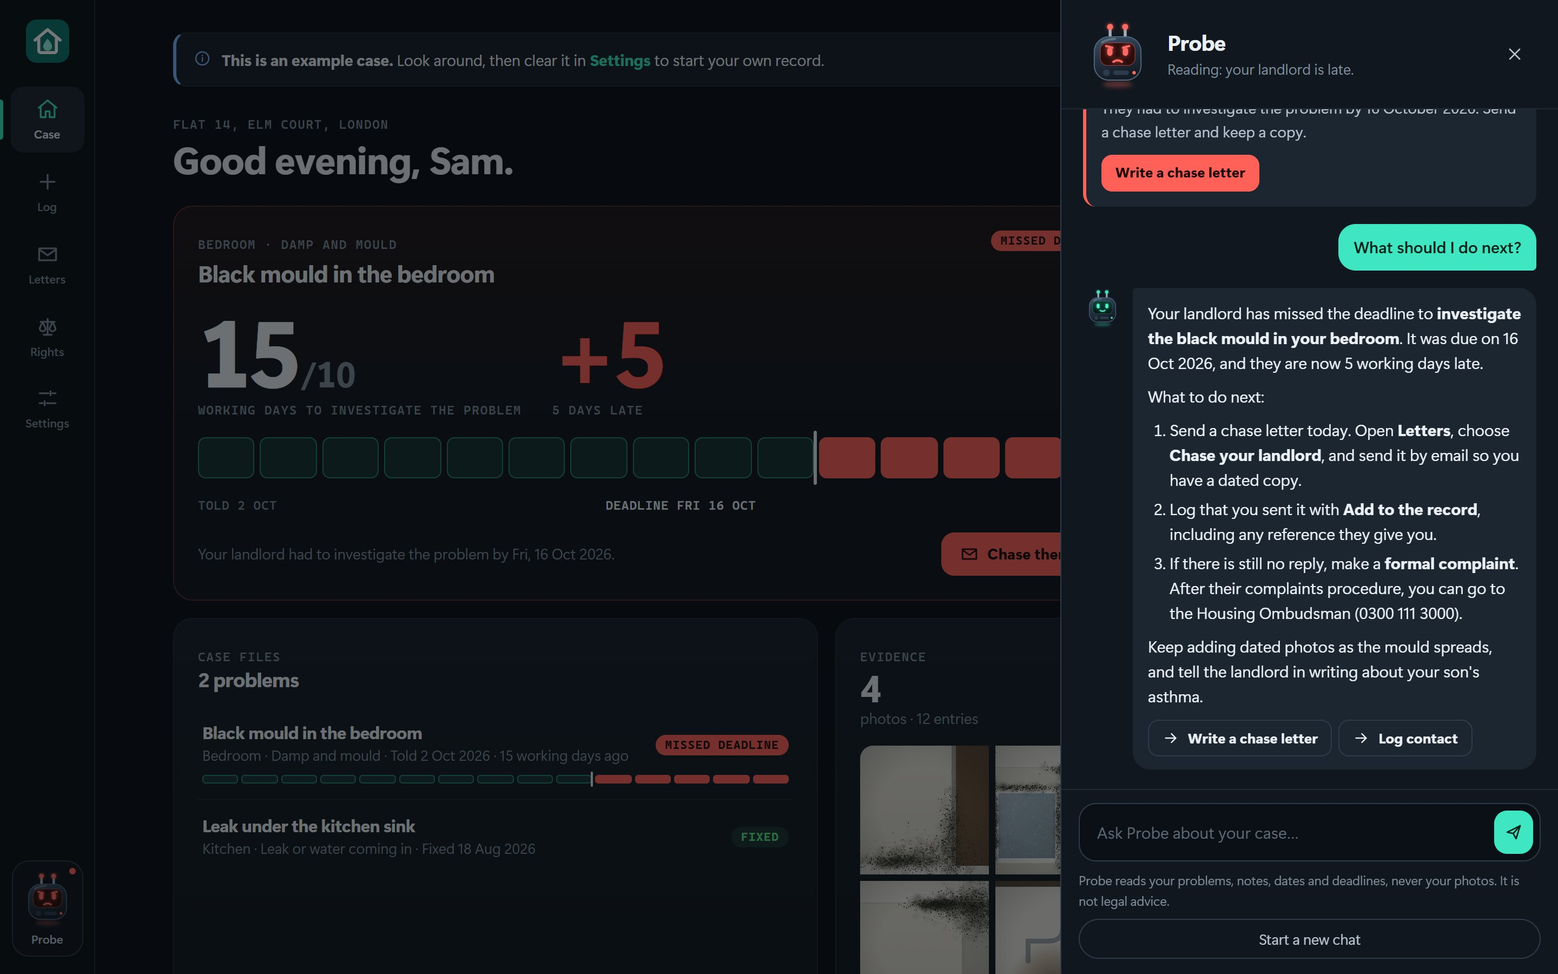
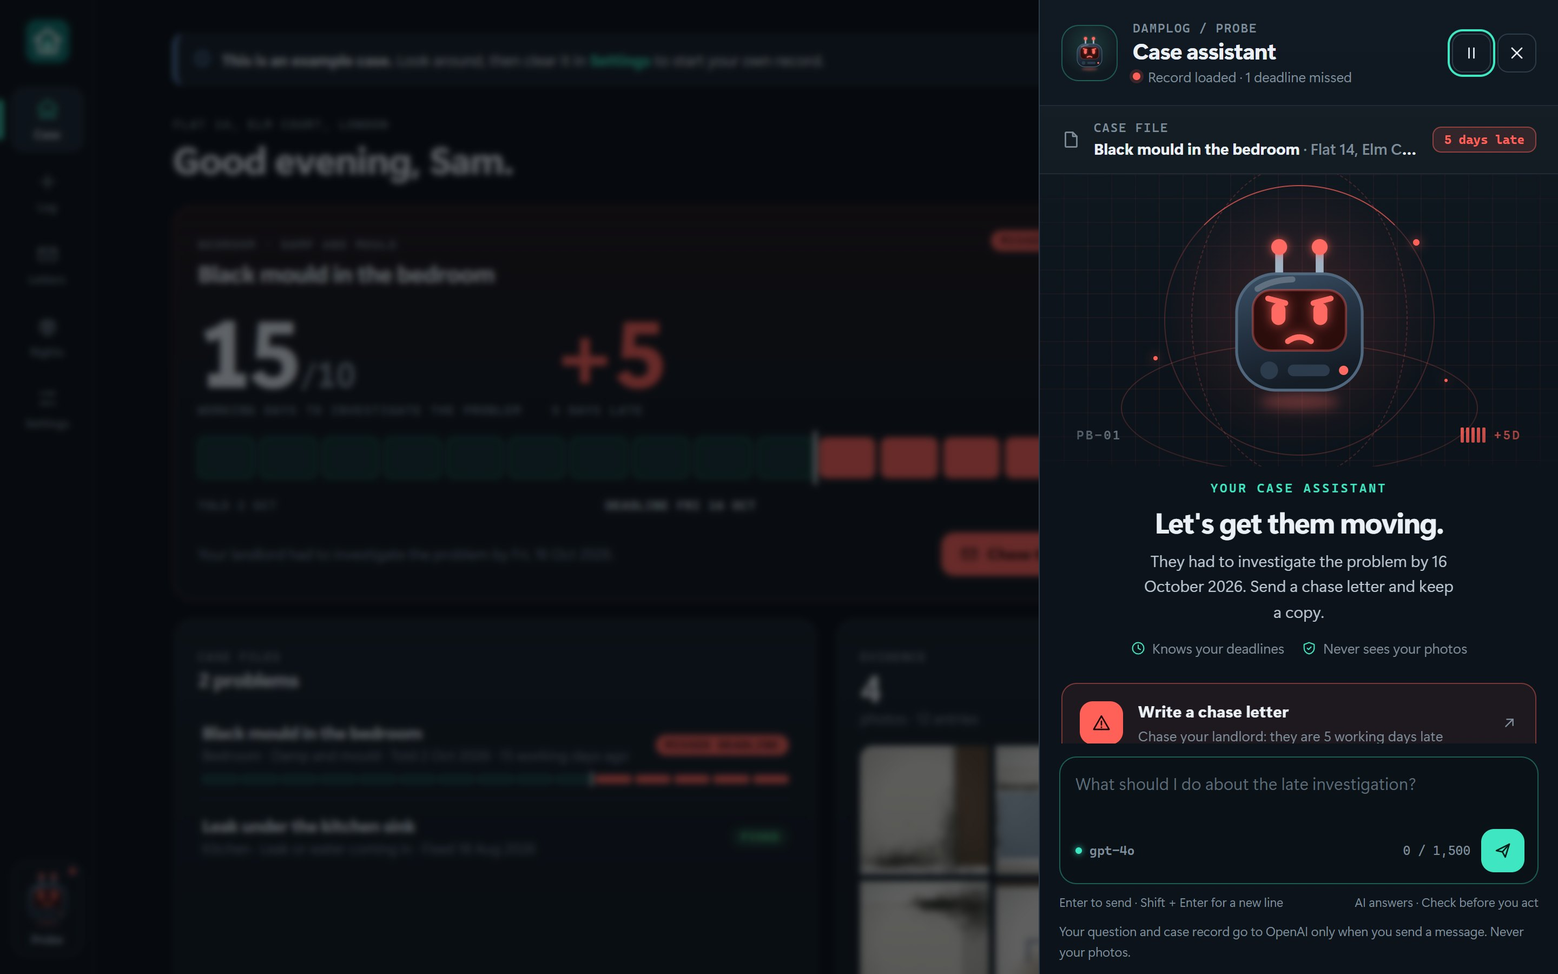
Give Probe a full assistant panel: lab stage, case bar, action cards and composer

diff --git a/css/styles.css b/css/styles.css
@@ -509,30 +509,115 @@ button.thumb:hover { transform: rotate(0) scale(1.04); }
 @keyframes pb-pop { from { transform: scale(0.5) translateY(10px); opacity: 0; } }
 
 /* Probe's panel: slides in from the right, a sheet on phones */
-.probe-panel { position: fixed; inset: 0 0 0 auto; margin: 0; height: 100%; max-height: none; max-width: none; width: min(460px, 100vw); padding: 0; border: 0; border-left: 1px solid var(--line-strong); border-radius: 0; background: var(--panel); color: var(--ink); display: none; flex-direction: column; animation: panel-in 0.26s cubic-bezier(0.2, 0.8, 0.2, 1); }
+.probe-panel { position: fixed; inset: 0 0 0 auto; margin: 0; height: 100%; max-height: none; max-width: none; width: min(480px, 100vw); padding: 0; border: 0; border-left: 1px solid var(--line-strong); border-radius: 0; background: linear-gradient(180deg, #111a23, #0c131a 40%); color: var(--ink); display: none; flex-direction: column; animation: panel-in 0.28s cubic-bezier(0.2, 0.8, 0.2, 1); }
 .probe-panel[open] { display: flex; }
-.probe-panel::backdrop { background: rgb(4 7 10 / 55%); }
-@keyframes panel-in { from { transform: translateX(40px); opacity: 0; } }
-.panel-head { display: flex; align-items: center; gap: 14px; padding: 18px 20px; border-bottom: 1px solid var(--line); }
-.panel-head h2 { font-size: 1.25rem; }
-.panel-head p { margin: 2px 0 0; color: var(--muted); font-size: 0.84rem; }
-.panel-head .btn { margin-left: auto; }
-.panel-body { flex: 1; overflow-y: auto; padding: 18px 20px; display: flex; flex-direction: column; gap: 16px; }
-.panel-foot { padding: 12px 16px calc(14px + env(safe-area-inset-bottom)); border-top: 1px solid var(--line); display: flex; flex-direction: column; gap: 8px; }
-.readings { display: flex; flex-direction: column; gap: 10px; }
-.thread { display: flex; flex-direction: column; gap: 16px; }
+.probe-panel:focus { outline: none; }
+.probe-panel::backdrop { background: rgb(4 7 10 / 60%); -webkit-backdrop-filter: blur(3px); backdrop-filter: blur(3px); }
+@keyframes panel-in { from { transform: translateX(48px); opacity: 0; } }
+.probe-panel.calm *, .probe-panel.calm *::before, .probe-panel.calm *::after { animation-play-state: paused !important; }
+
+.pp-head { display: flex; align-items: center; gap: 14px; padding: 18px 20px 16px; border-bottom: 1px solid var(--line); }
+.pp-avatar { display: grid; place-items: center; width: 52px; height: 52px; border-radius: 16px; background: radial-gradient(circle at 50% 35%, #1d3b39, #101820 70%); border: 1px solid rgb(62 230 193 / 30%); flex: none; }
+.pp-title { display: flex; flex-direction: column; gap: 1px; min-width: 0; }
+.pp-title h2 { font-size: 1.3rem; }
+.pp-status { display: inline-flex; align-items: center; gap: 7px; font-size: 0.8rem; color: var(--muted); }
+.pp-status i { width: 7px; height: 7px; border-radius: 50%; background: var(--accent); box-shadow: 0 0 0 3px rgb(62 230 193 / 18%); animation: pb-tip 1.8s ease-in-out infinite; }
+.pp-status.bad i { background: var(--bad); box-shadow: 0 0 0 3px rgb(255 97 89 / 18%); }
+.pp-tools { margin-left: auto; display: flex; gap: 6px; }
+.pp-tools .btn { width: 36px; height: 36px; border-radius: 10px; background: transparent; }
+.pp-context { display: flex; align-items: center; gap: 12px; padding: 12px 20px; border-bottom: 1px solid var(--line); background: rgb(255 255 255 / 2%); }
+.pp-context > .icon { color: var(--muted); flex: none; }
+.pp-context > div { display: flex; flex-direction: column; min-width: 0; flex: 1; }
+.pp-context strong { font-size: 0.9rem; white-space: nowrap; overflow: hidden; text-overflow: ellipsis; }
+.pp-context strong span { color: var(--muted); font-weight: 500; }
+.pp-pill { flex: none; padding: 4px 10px; border-radius: 8px; border: 1px solid var(--line-strong); font: 700 0.72rem var(--mono); color: var(--ink-2); }
+.pp-pill.bad { border-color: rgb(255 97 89 / 45%); color: var(--bad); background: var(--bad-soft); }
+
+.panel-body { flex: 1; overflow-y: auto; padding: 0 20px 18px; display: flex; flex-direction: column; }
+.panel-foot { padding: 12px 18px calc(12px + env(safe-area-inset-bottom)); display: flex; flex-direction: column; gap: 8px; }
+
+/* The lab: Probe on a holographic stage */
+.pp-lab { display: flex; flex-direction: column; gap: 18px; }
+.pp-stage { position: relative; height: 270px; margin: 0 -20px; display: grid; place-items: center; overflow: hidden; isolation: isolate;
+  background:
+    radial-gradient(circle at 50% 48%, rgb(62 230 193 / 18%), transparent 46%),
+    linear-gradient(rgb(62 230 193 / 7%) 1px, transparent 1px) 0 0 / 22px 22px,
+    linear-gradient(90deg, rgb(62 230 193 / 7%) 1px, transparent 1px) 0 0 / 22px 22px;
+  -webkit-mask-image: radial-gradient(ellipse 75% 85% at 50% 50%, #000 55%, transparent 100%); mask-image: radial-gradient(ellipse 75% 85% at 50% 50%, #000 55%, transparent 100%); }
+.pp-stage.alert { background:
+    radial-gradient(circle at 50% 48%, rgb(255 97 89 / 18%), transparent 46%),
+    linear-gradient(rgb(255 97 89 / 6%) 1px, transparent 1px) 0 0 / 22px 22px,
+    linear-gradient(90deg, rgb(255 97 89 / 6%) 1px, transparent 1px) 0 0 / 22px 22px; }
+.pp-stage .probe { position: relative; z-index: 2; }
+.pp-orbit { position: absolute; left: 50%; top: 50%; border-radius: 50%; border: 1px solid rgb(62 230 193 / 28%); transform: translate(-50%, -50%); }
+.pp-orbit.o1 { width: 250px; height: 250px; animation: pp-spin 26s linear infinite; border-top-color: rgb(62 230 193 / 70%); }
+.pp-orbit.o2 { width: 200px; height: 290px; border-style: dashed; border-color: rgb(62 230 193 / 18%); animation: pp-spin 40s linear infinite reverse; }
+.pp-orbit.o3 { width: 330px; height: 120px; top: 80%; border-color: rgb(62 230 193 / 16%); }
+.pp-stage.alert .pp-orbit { border-color: rgb(255 97 89 / 22%); }
+.pp-stage.alert .pp-orbit.o1 { border-top-color: rgb(255 97 89 / 70%); }
+@keyframes pp-spin { to { transform: translate(-50%, -50%) rotate(360deg); } }
+.pp-spark { position: absolute; width: 6px; height: 6px; border-radius: 50%; background: var(--accent); box-shadow: 0 0 10px var(--accent); animation: pp-drift 6s ease-in-out infinite; }
+.pp-spark.s1 { left: 72%; top: 22%; }
+.pp-spark.s2 { left: 22%; top: 62%; width: 4px; height: 4px; animation-delay: -2s; }
+.pp-spark.s3 { left: 78%; top: 70%; width: 3px; height: 3px; animation-delay: -4s; }
+.pp-stage.alert .pp-spark { background: var(--bad); box-shadow: 0 0 10px var(--bad); }
+@keyframes pp-drift { 0%, 100% { transform: translate(0, 0); opacity: 0.9; } 50% { transform: translate(-8px, -14px); opacity: 0.35; } }
+.pp-tag, .pp-meter { position: absolute; bottom: 22px; font: 600 0.72rem var(--mono); letter-spacing: 0.14em; color: var(--muted); }
+.pp-tag { left: 34px; }
+.pp-meter { right: 34px; display: flex; align-items: flex-end; gap: 8px; color: var(--accent); }
+.pp-stage.alert .pp-meter { color: var(--bad); }
+.pp-bars { display: inline-flex; align-items: flex-end; gap: 2px; height: 14px; }
+.pp-bars i { width: 3px; height: 100%; border-radius: 1px; background: currentColor; transform-origin: bottom; animation: pb-bar 1.1s ease-in-out infinite; }
+.pp-bars i:nth-child(2) { animation-delay: 0.15s; }
+.pp-bars i:nth-child(3) { animation-delay: 0.3s; }
+.pp-bars i:nth-child(4) { animation-delay: 0.45s; }
+.pp-bars i:nth-child(5) { animation-delay: 0.6s; }
+
+.pp-intro { display: flex; flex-direction: column; align-items: center; text-align: center; gap: 8px; margin-top: -6px; }
+.pp-intro .kicker { color: var(--accent); letter-spacing: 0.16em; }
+.pp-intro h3 { font-size: 1.65rem; font-weight: 800; letter-spacing: -0.03em; }
+.pp-intro p { color: var(--ink-2); margin: 0; max-width: 36ch; }
+.pp-chips { display: flex; gap: 16px; flex-wrap: wrap; justify-content: center; margin-top: 4px; }
+.pp-chips span { display: inline-flex; align-items: center; gap: 6px; font-size: 0.8rem; color: var(--muted); }
+.pp-chips .icon { color: var(--accent); }
+
+.pp-cards { display: flex; flex-direction: column; gap: 10px; margin-top: 4px; }
+.pp-card { display: flex; align-items: center; gap: 14px; width: 100%; padding: 14px 16px; border-radius: 14px; border: 1px solid var(--line-strong); background: rgb(255 255 255 / 3%); color: var(--ink); font: inherit; text-align: left; cursor: pointer; transition: border-color 0.15s, background 0.15s, transform 0.15s; }
+.pp-card:hover { border-color: rgb(62 230 193 / 55%); background: rgb(62 230 193 / 6%); transform: translateY(-1px); }
+.pp-card > .icon { color: var(--muted); flex: none; transition: transform 0.15s, color 0.15s; }
+.pp-card:hover > .icon { color: var(--accent); transform: translate(2px, -2px); }
+.pp-card-icon { display: grid; place-items: center; width: 40px; height: 40px; border-radius: 12px; background: rgb(62 230 193 / 12%); color: var(--accent); flex: none; }
+.pp-card.bad { border-color: rgb(255 97 89 / 40%); background: rgb(255 97 89 / 7%); }
+.pp-card.bad .pp-card-icon { background: var(--bad); color: #1a0504; }
+.pp-card.bad:hover { border-color: var(--bad); }
+.pp-card.warn .pp-card-icon { background: var(--warn-soft); color: var(--warn); }
+.pp-card-text { flex: 1; display: flex; flex-direction: column; gap: 1px; min-width: 0; }
+.pp-card-text strong { font-size: 0.95rem; }
+.pp-card-text small { color: var(--muted); font-size: 0.82rem; }
+
+/* The composer */
+.pp-composer { display: flex; flex-direction: column; gap: 6px; padding: 12px 12px 10px 14px; border-radius: 16px; border: 1px solid rgb(62 230 193 / 35%); background: #0a1117; transition: border-color 0.15s, box-shadow 0.15s; }
+.pp-composer:focus-within { border-color: var(--accent); box-shadow: 0 0 0 3px rgb(62 230 193 / 14%); }
+.pp-composer textarea { border: 0; background: none; padding: 0; resize: none; box-shadow: none; font-size: 0.98rem; min-height: 46px; max-height: 180px; }
+.pp-composer textarea:focus { box-shadow: none; }
+.pp-composer-foot { display: flex; align-items: center; gap: 10px; }
+.pp-model { display: inline-flex; align-items: center; gap: 7px; font: 600 0.74rem var(--mono); color: var(--muted); }
+.pp-model i { width: 6px; height: 6px; border-radius: 50%; background: var(--muted); }
+.pp-model.on i { background: var(--accent); box-shadow: 0 0 6px var(--accent); }
+.pp-count { margin-left: auto; font: 0.74rem var(--mono); color: var(--muted); }
+.pp-composer .btn { width: 40px; height: 40px; border-radius: 12px; }
+.pp-hints { display: flex; justify-content: space-between; gap: 10px; flex-wrap: wrap; font-size: 0.72rem; color: var(--muted); }
+.fineprint { color: var(--muted); font-size: 0.74rem; margin: 0; }
+
+/* The conversation */
+.thread { display: flex; flex-direction: column; gap: 16px; padding-top: 18px; }
 .msg.user { align-self: flex-end; max-width: 86%; padding: 10px 14px; border-radius: 16px 16px 4px 16px; background: var(--accent); color: var(--accent-ink); font-weight: 550; white-space: pre-wrap; }
 .msg.ai { display: grid; grid-template-columns: auto minmax(0, 1fr); gap: 10px; }
-.msg.ai .msg-body { padding: 12px 14px; border-radius: 4px 16px 16px 16px; background: var(--panel-3); font-size: 0.93rem; display: flex; flex-direction: column; gap: 10px; }
+.msg.ai .msg-body { padding: 12px 14px; border-radius: 4px 16px 16px 16px; background: rgb(255 255 255 / 4%); border: 1px solid var(--line); font-size: 0.93rem; display: flex; flex-direction: column; gap: 10px; }
 .msg-actions { display: flex; gap: 6px; flex-wrap: wrap; }
-.prompt-chips { display: flex; gap: 8px; flex-wrap: wrap; }
 .chip { padding: 7px 12px; border-radius: 999px; border: 1px solid var(--line-strong); background: transparent; color: var(--ink-2); font: inherit; font-size: 0.84rem; cursor: pointer; }
 .chip:hover { border-color: var(--accent); color: var(--ink); }
-.composer { display: flex; gap: 8px; align-items: flex-end; padding: 6px; border-radius: 16px; border: 1px solid var(--line-strong); background: #0b1016; }
-.composer:focus-within { border-color: var(--accent); }
-.composer textarea { border: 0; background: none; resize: none; box-shadow: none; padding: 8px 10px; max-height: 160px; }
-.composer textarea:focus { box-shadow: none; }
-.fineprint { color: var(--muted); font-size: 0.74rem; margin: 0; }
+
 .md { display: flex; flex-direction: column; gap: 8px; overflow-wrap: anywhere; }
 .md p, .md ul, .md ol, .md h4 { margin: 0; }
 .md li + li { margin-top: 4px; }
@@ -586,7 +671,9 @@ button.thumb:hover { transform: rotate(0) scale(1.04); }
   .btn.sm:not(:has(span)) { width: 38px; }
   input, select, textarea { font-size: 16px; }
   .toasts { bottom: calc(96px + env(safe-area-inset-bottom)); }
-  .probe-panel { inset: auto 0 0 0; width: 100%; height: 88vh; border-left: 0; border-top: 1px solid var(--line-strong); border-radius: 22px 22px 0 0; animation: sheet-up 0.28s cubic-bezier(0.2, 0.8, 0.2, 1); }
+  .probe-panel { inset: auto 0 0 0; width: 100%; height: 92vh; border-left: 0; border-top: 1px solid var(--line-strong); border-radius: 22px 22px 0 0; animation: sheet-up 0.28s cubic-bezier(0.2, 0.8, 0.2, 1); }
+  .pp-stage { height: 230px; }
+  .pp-hints span:last-child { display: none; }
   .dialog { width: 100%; max-width: 100%; margin: auto 0 0; max-height: 88vh; overflow-y: auto; border-radius: 22px 22px 0 0; padding: 10px 20px calc(20px + env(safe-area-inset-bottom)); animation: sheet-up 0.26s cubic-bezier(0.2, 0.8, 0.2, 1); }
   .dialog::before { content: ""; display: block; width: 40px; height: 5px; border-radius: 3px; background: var(--line-strong); margin: 0 auto 16px; }
 }

diff --git a/js/app.js b/js/app.js
@@ -25,7 +25,7 @@ const aiMeta = () => (aiConfig.provider ? [{ id: 'ai', ...aiConfig }] : []);
 
 // The assistant conversation lives in memory only, so it survives moving between
 // screens but is never saved.
-const chat = { messages: [], busy: false, controller: null };
+const chat = { messages: [], busy: false, controller: null, calm: false };
 
 /* ---------- helpers ---------- */
 
@@ -979,12 +979,16 @@ let probePanel = null;
 
 function openProbe({ focus = false, ask } = {}) {
   if (!probePanel) {
-    probePanel = h('dialog', { class: 'probe-panel', 'aria-label': 'Probe, your case assistant' });
+    probePanel = h('dialog', { class: 'probe-panel', 'aria-label': 'Probe, your case assistant', tabindex: '-1' });
     probePanel.addEventListener('click', (e) => { if (e.target === probePanel) probePanel.close(); });
     document.body.append(probePanel);
   }
   paintProbe();
-  if (!probePanel.open) probePanel.showModal();
+  if (!probePanel.open) {
+    probePanel.showModal();
+    // Start focus on the panel itself, not on its first button.
+    probePanel.focus({ preventScroll: true });
+  }
   if (ask) askProbe(ask);
   else if (focus) probePanel.querySelector('textarea:not([disabled])')?.focus();
 }
@@ -1018,20 +1022,94 @@ function bubble(m) {
   return h('div', { class: 'msg ai' }, m.face, m.el);
 }
 
+const MAX_QUESTION = 1500;
+
+// The panel has two states: a "lab" with Probe on a holographic stage and big
+// action cards, and, once a conversation starts, the thread with Probe docked
+// in the header. The case bar and composer stay the same in both.
 function paintProbe() {
   if (!probePanel) return;
-  const steps = nextSteps(state.home, summaries(), today());
-  const mood = chat.busy ? 'thinking' : steps[0]?.tone === 'bad' ? 'alert' : 'idle';
-  chat.face = probe(64, mood);
-  const input = h('textarea', { rows: 1, placeholder: aiConfig.provider ? 'Ask Probe about your case…' : 'Connect AI help to chat', disabled: !aiConfig.provider, 'aria-label': 'Your question' });
-  input.addEventListener('input', () => {
-    input.style.height = 'auto';
-    input.style.height = `${Math.min(input.scrollHeight, 160)}px`;
+  const t = today();
+  const list = summaries();
+  const steps = nextSteps(state.home, list, t);
+  const lead = list.find((s) => !s.fixed) ?? list[0];
+  const late = lead?.deadlines.overdue[0];
+  const lateDays = late && !late.dueAt ? core.workingDaysBetween(late.due, t.date) : 0;
+  const mood = chat.busy ? 'thinking' : late ? 'alert' : 'idle';
+  const talking = chat.messages.length > 0;
+  chat.face = probe(talking ? 40 : 172, mood);
+  probePanel.classList.toggle('calm', Boolean(chat.calm));
+
+  const status = chat.busy ? 'Taking a reading…'
+    : !aiConfig.provider ? 'Readings only · connect AI to chat'
+      : late ? `Record loaded · ${plural(lead.deadlines.overdue.length, 'deadline')} missed` : 'Record loaded · Ready to help';
+  const head = h('header', { class: 'pp-head' },
+    h('span', { class: 'pp-avatar' }, talking ? chat.face : probe(34, mood)),
+    h('div', { class: 'pp-title' },
+      h('span', { class: 'kicker' }, 'DampLog / Probe'),
+      h('h2', {}, 'Case assistant'),
+      h('span', { class: `pp-status ${late ? 'bad' : ''}` }, h('i'), status)),
+    h('div', { class: 'pp-tools' },
+      talking && !chat.busy && btn('', { icon: 'refresh', title: 'New chat', onclick: () => { chat.messages = []; paintProbe(); } }),
+      btn('', { icon: chat.calm ? 'play' : 'pause', title: chat.calm ? 'Play animations' : 'Pause animations', onclick: () => { chat.calm = !chat.calm; paintProbe(); } }),
+      btn('', { icon: 'close', title: 'Close', onclick: () => probePanel.close() })));
+
+  const context = lead && h('div', { class: 'pp-context' },
+    icon('file', 18),
+    h('div', {}, h('span', { class: 'kicker' }, 'Case file'), h('strong', {}, lead.issue.title, h('span', {}, ` · ${state.home.address || 'your home'}`))),
+    h('span', { class: `pp-pill ${late ? 'bad' : ''}` }, late ? (lateDays ? `${lateDays} days late` : 'Late') : plural(list.length, 'problem')));
+
+  let body;
+  if (talking) {
+    body = h('div', { class: 'thread', 'aria-live': 'polite' }, chat.messages.map(bubble));
+  } else {
+    const cards = [];
+    if (steps[0]) cards.push({ icon: steps[0].tone === 'bad' ? 'alert' : 'next', tone: steps[0].tone, title: steps[0].action.label, sub: steps[0].title, run: () => goFromProbe(steps[0].action.href) });
+    if (aiConfig.provider) {
+      cards.push(
+        { icon: 'list', title: 'Plan my next steps', sub: 'Start with what matters most', run: () => askProbe(SUGGESTIONS[0]) },
+        { icon: 'clock', title: 'Explain my deadlines', sub: 'In plain English, from your record', run: () => askProbe(SUGGESTIONS[2]) },
+        { icon: 'flag', title: 'Prepare a complaint', sub: 'What to include, with your dates', run: () => askProbe(SUGGESTIONS[3]) });
+    } else {
+      cards.push({ icon: 'sparkle', title: 'Connect AI help', sub: 'Ask Probe your own questions', run: () => goFromProbe('#/settings?section=ai') });
+    }
+    body = h('div', { class: 'pp-lab' },
+      h('div', { class: `pp-stage ${late ? 'alert' : ''}` },
+        h('span', { class: 'pp-orbit o1' }), h('span', { class: 'pp-orbit o2' }), h('span', { class: 'pp-orbit o3' }),
+        h('span', { class: 'pp-spark s1' }), h('span', { class: 'pp-spark s2' }), h('span', { class: 'pp-spark s3' }),
+        chat.face,
+        h('span', { class: 'pp-tag' }, 'PB-01'),
+        h('span', { class: 'pp-meter' }, h('span', { class: 'pp-bars' }, h('i'), h('i'), h('i'), h('i'), h('i')), late ? `+${lateDays || '!'}D` : 'OK')),
+      h('div', { class: 'pp-intro' },
+        h('span', { class: 'kicker' }, 'Your case assistant'),
+        h('h3', {}, late ? 'Let\'s get them moving.' : steps.length ? 'Let\'s keep your case on track.' : 'All quiet on your case.'),
+        h('p', {}, steps[0]?.text ?? 'Ask me anything about your record. I know your dates and the deadlines.'),
+        h('div', { class: 'pp-chips' },
+          h('span', {}, icon('clock', 14), 'Knows your deadlines'),
+          h('span', {}, icon('shield', 14), 'Never sees your photos'))),
+      h('div', { class: 'pp-cards' }, cards.map((c) => h('button', { type: 'button', class: `pp-card ${c.tone ?? ''}`, onclick: c.run },
+        h('span', { class: 'pp-card-icon' }, icon(c.icon, 18)),
+        h('span', { class: 'pp-card-text' }, h('strong', {}, c.title), h('small', {}, c.sub)),
+        icon('arrowUpRight', 16)))));
+  }
+
+  const input = h('textarea', {
+    rows: 2, maxlength: MAX_QUESTION, disabled: !aiConfig.provider, 'aria-label': 'Your question',
+    placeholder: !aiConfig.provider ? 'Connect AI help to ask your own questions' : late ? 'What should I do about the late investigation?' : 'What should I do next?',
   });
-  const form = h('form', { class: 'composer' }, input,
-    chat.busy
-      ? btn('', { icon: 'stop', title: 'Stop', onclick: () => chat.controller?.abort() })
-      : btn('', { icon: 'send', kind: 'primary', title: 'Send', type: 'submit', disabled: !aiConfig.provider }));
+  const count = h('span', { class: 'pp-count' }, `0 / ${MAX_QUESTION.toLocaleString('en-GB')}`);
+  input.addEventListener('input', () => {
+    count.textContent = `${input.value.length} / ${MAX_QUESTION.toLocaleString('en-GB')}`;
+    input.style.height = 'auto';
+    input.style.height = `${Math.min(input.scrollHeight, 180)}px`;
+  });
+  const form = h('form', { class: 'pp-composer' }, input,
+    h('div', { class: 'pp-composer-foot' },
+      h('span', { class: `pp-model ${aiConfig.provider ? 'on' : ''}` }, h('i'), aiConfig.provider ? aiConfig.model : 'AI off'),
+      count,
+      chat.busy
+        ? btn('', { icon: 'stop', title: 'Stop', onclick: () => chat.controller?.abort() })
+        : btn('', { icon: 'send', kind: 'primary', title: 'Send', type: 'submit', disabled: !aiConfig.provider })));
   form.addEventListener('submit', (e) => {
     e.preventDefault();
     const question = input.value;
@@ -1044,28 +1122,19 @@ function paintProbe() {
       form.requestSubmit();
     }
   });
-  probePanel.replaceChildren(
-    h('header', { class: 'panel-head' }, chat.face,
-      h('div', {}, h('h2', {}, 'Probe'), h('p', {}, mood === 'alert' ? 'Reading: your landlord is late.' : 'Your case assistant')),
-      btn('', { icon: 'close', kind: 'ghost', title: 'Close', onclick: () => probePanel.close() })),
-    h('div', { class: 'panel-body' },
-      h('span', { class: 'kicker' }, 'Reading your record'),
-      steps.length
-        ? h('div', { class: 'readings' }, steps.slice(0, 3).map((s, i) => h('div', { class: `reading ${s.tone}` },
-          h('strong', {}, s.title),
-          i === 0 && h('p', {}, s.text),
-          btn(s.action.label, { size: 'sm', kind: i ? '' : s.tone === 'bad' ? 'late' : 'primary', onclick: () => goFromProbe(s.action.href) }))))
-        : h('p', { class: 'muted' }, 'Nothing needs doing right now.'),
-      chat.messages.length
-        ? h('div', { class: 'thread', 'aria-live': 'polite' }, chat.messages.map(bubble))
-        : aiConfig.provider && h('div', { class: 'prompt-chips' }, SUGGESTIONS.map((q) => h('button', { type: 'button', class: 'chip', onclick: () => askProbe(q) }, q))),
-      !aiConfig.provider && notice('', 'sparkle', 'Probe gives these readings on its own. To ask your own questions, ',
-        h('a', { href: '#/settings?section=ai', onclick: () => probePanel.close() }, 'connect AI help'), ' with your OpenAI or Claude key.')),
+
+  probePanel.replaceChildren(...[
+    head,
+    context,
+    h('div', { class: 'panel-body' }, body),
     h('div', { class: 'panel-foot' }, form,
-      h('p', { class: 'fineprint' }, 'Probe reads your problems, notes, dates and deadlines, never your photos. It is not legal advice.'),
-      chat.messages.length > 0 && !chat.busy && h('button', { type: 'button', class: 'chip', onclick: () => { chat.messages = []; paintProbe(); } }, 'Start a new chat')));
-  const body = probePanel.querySelector('.panel-body');
-  if (chat.messages.length) requestAnimationFrame(() => { body.scrollTop = body.scrollHeight; });
+      h('div', { class: 'pp-hints' }, h('span', {}, 'Enter to send · Shift + Enter for a new line'), h('span', {}, 'AI answers · Check before you act')),
+      h('p', { class: 'fineprint' }, aiConfig.provider
+        ? `Your question and case record go to ${ai.PROVIDERS[aiConfig.provider].name} only when you send a message. Never your photos.`
+        : 'Probe\'s readings are worked out on this device. Nothing is sent anywhere.')),
+  ].filter(Boolean));
+  const scroller = probePanel.querySelector('.panel-body');
+  if (talking) requestAnimationFrame(() => { scroller.scrollTop = scroller.scrollHeight; });
 }
 
 async function askProbe(text) {

diff --git a/js/icons.js b/js/icons.js
@@ -28,6 +28,9 @@ export const ICONS = {
   sparkle: ['M12 3.5l1.6 4.3 4.4 1.7-4.4 1.7L12 15.5l-1.6-4.3L6 9.5l4.4-1.7z', 'M18.5 14.5l.8 2 2 .8-2 .8-.8 2-.8-2-2-.8 2-.8z', 'M5.5 15.5l.6 1.4 1.4.6-1.4.6-.6 1.4-.6-1.4-1.4-.6 1.4-.6z'],
   eye: ['M2 12s3.6-7 10-7 10 7 10 7-3.6 7-10 7S2 12 2 12z', 'M12 15a3 3 0 1 0 0-6 3 3 0 0 0 0 6z'],
   droplet: ['M12 3s6 6.5 6 11a6 6 0 0 1-12 0c0-4.5 6-11 6-11z'],
+  pause: ['M9 6v12', 'M15 6v12'],
+  play: ['M8 5.5v13l10.5-6.5z'],
+  arrowUpRight: ['M7 17 17 7', 'M8.5 7H17v8.5'],
   back: ['M15 5l-7 7 7 7'],
   next: ['M5 12h14', 'M13 6l6 6-6 6'],
   close: ['M6 6l12 12', 'M18 6 6 18'],
